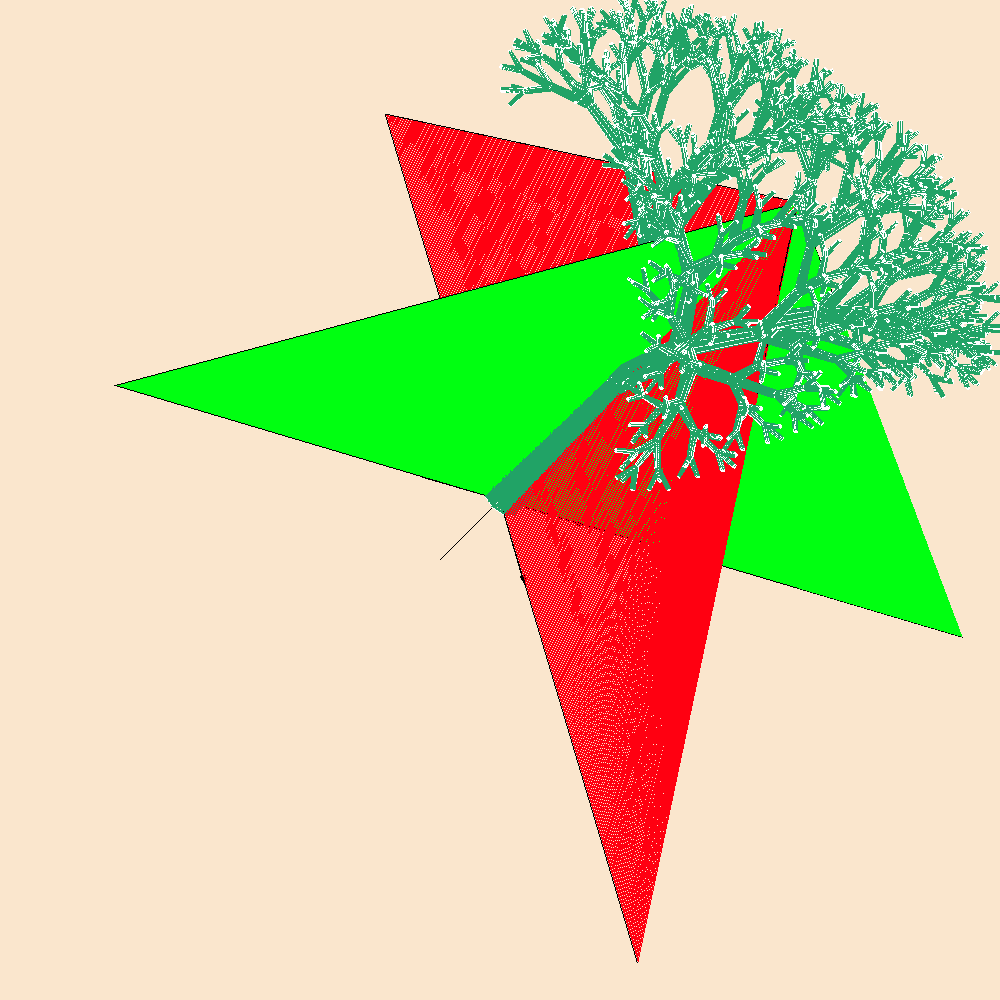
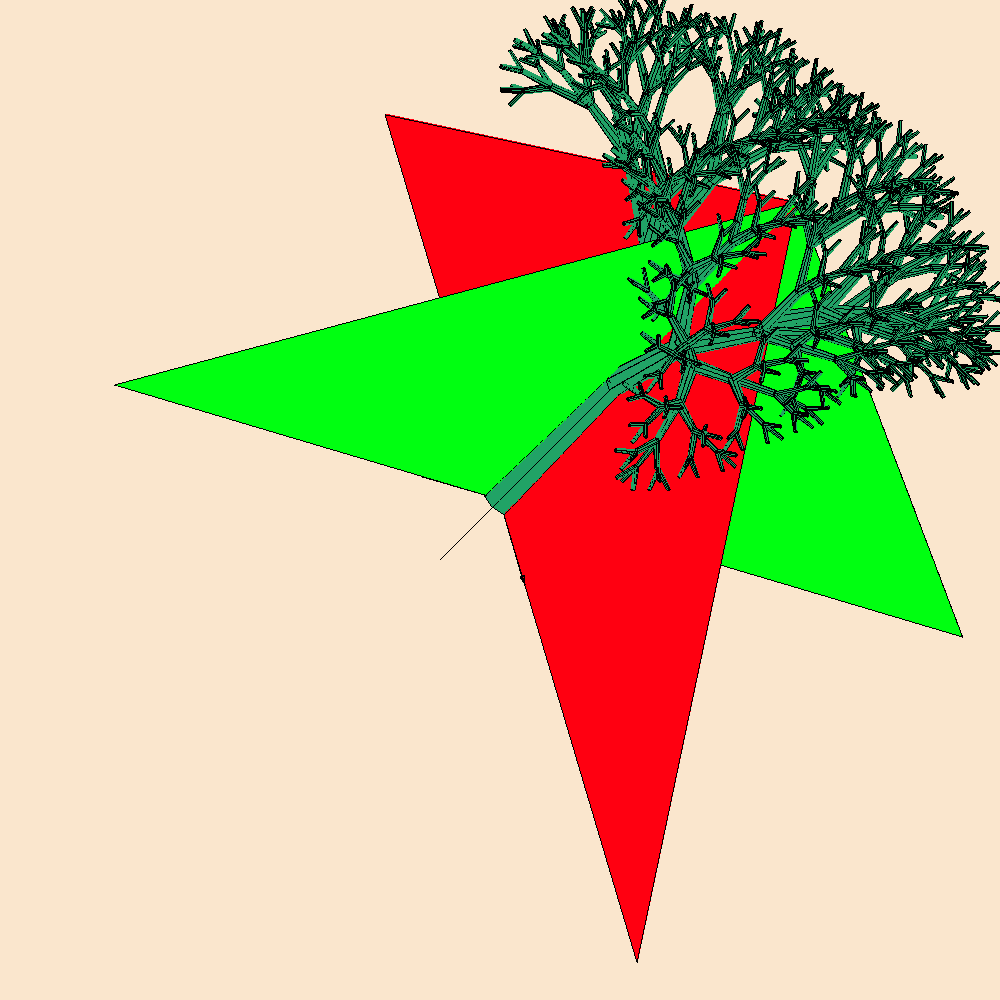
Update

diff --git a/src/GraphicsND.cpp b/src/GraphicsND.cpp
@@ -96,11 +96,11 @@ void GraphicsND::drawLine(double sx0, double ex0, double sy0, double ey0, double
 	int distance = delta[0] > delta[1] ? delta[0] : delta[1];			//总步数
 	distance = delta[2] > distance ? delta[2] : distance;				//总步数
 	//画线
-	for (int i = 0; i <= distance + 1; i++) {
+	for (int i = 0; i <= distance; i++) {
 		setPix(index[0], index[1], index[2]);							//唯一输出：画点
 		for (int dim = 0; dim < 3; dim++) {								//xyz走一步
 			err[dim] += delta[dim];
-			if (err[dim] > distance) { err[dim] -= distance; index[dim] += inc[dim]; }
+			if (err[dim] >= distance) { err[dim] -= distance; index[dim] += inc[dim]; }
 		}
 	}
 }
@@ -115,11 +115,11 @@ void GraphicsND::drawLine(Mat<double>& sp0, Mat<double>& ep0) {
 		delta[dim] *= delta[dim] < 0 ? -1 : 1;							//绝对值
 	} int distance = delta.max();										//总步数
 	//画线
-	for (int i = 0; i <= distance + 1; i++) {
+	for (int i = 0; i <= distance; i++) {
 		setPix(index[0], index[1], index[2]);							//唯一输出：画点
 		for (int dim = 0; dim < sp.rows; dim++) {						//xyz走一步
 			err[dim] += delta[dim];
-			if (err[dim] > distance) { err[dim] -= distance; index[dim] += inc[dim]; }
+			if (err[dim] >= distance) { err[dim] -= distance; index[dim] += inc[dim]; }
 		}
 	}
 }
@@ -142,7 +142,7 @@ void GraphicsND::drawTriangle(Mat<double>& p1, Mat<double>& p2, Mat<double>& p3,
 		Mat<int> err[2], inc[2], delta[2], index[2];
 		for (int k = 0; k < 2; k++) {
 			err[k].zero(Dim, 1), inc[k].zero(Dim, 1); delta[k].add(pt[k + 1], pt[0].negative(tmp)); index[k] = pt[0];
-			for (int dim = 1; dim < Dim; dim++) {
+			for (int dim = 0; dim < Dim; dim++) {
 				inc[k][dim] = delta[k][dim] == 0 ? 0 : (delta[k][dim] > 0 ? 1 : -1);//符号函数(向右,垂直,向左)
 				delta[k][dim] *= delta[k][dim] < 0 ? -1 : 1;						//向左
 			}
@@ -150,7 +150,7 @@ void GraphicsND::drawTriangle(Mat<double>& p1, Mat<double>& p2, Mat<double>& p3,
 		//画线
 		int dXMaxCur = delta[0][0] > delta[1][0] ? 0 : 1;
 		bool flag = true;															//三角形转折点检测开关(不然会二次检测)
-		for (int i = 0; i <= delta[dXMaxCur][0] + 1; i++) {
+		for (int i = 0; i <= delta[dXMaxCur][0]; i++) {
 			//三角形转折点检测
 			if (i == delta[1 - dXMaxCur][0] && flag) {
 				flag = false;														//关闭检测
@@ -170,11 +170,11 @@ void GraphicsND::drawTriangle(Mat<double>& p1, Mat<double>& p2, Mat<double>& p3,
 				deltaTmp[dim] *= deltaTmp[dim] < 0 ? -1 : 1;					//向左
 			}
 			int distanceTmp = deltaTmp.max();									//总步数
-			for (int i = 0; i <= distanceTmp + 1; i++) {						//画线
-				setPix(indexTmp[0], indexTmp[1], indexTmp[2], 0);				//唯一输出：画点
+			for (int i = 0; i <= distanceTmp; i++) {							//画线
+				setPix(indexTmp[0], indexTmp[1], indexTmp[2] - 1, 0);			//唯一输出：画点 (Z-1:反走样)
 				for (int dim = 0; dim < Dim; dim++) {							//xyz走一步
 					errTmp[dim] += deltaTmp[dim];
-					if (errTmp[dim] > distanceTmp) { errTmp[dim] -= distanceTmp; indexTmp[dim] += incTmp[dim]; }
+					if (errTmp[dim] >= distanceTmp) { errTmp[dim] -= distanceTmp; indexTmp[dim] += incTmp[dim]; }
 				}
 			}
 			for (int k = 0; k < 2; k++) {

diff --git a/example/LIGU-3D-Tree.c b/example/LIGU-3D-Tree.c
@@ -1,0 +1,43 @@
+#include "src/GraphicsND.h"
+#include "LiGu_AlgorithmLib/Fractal.h"
+#include <Windows.h>
+int main() {
+	GraphicsND g(1000, 1000);
+	g.g.clear(0xFAE6CD);
+
+	Mat<double> axis(3, 1), center(3, 1);
+	{double t[] = { 500 ,500 ,0 }; center.getData(t); }
+	g.translation(center);
+	{double t[] = { 1 ,1 ,0 }; axis.getData(t); }
+	{double t[] = { 0 ,0 ,0 }; center.getData(t); }
+	g.rotate(axis, 3/3, center);
+	g.g.PaintColor = 0; g.g.PaintSize = 0;
+	g.drawAxis(100, 100, 100, 1);
+	// Tree
+	g.FaceColor = 0x21a366; g.g.PaintSize = 0;
+	std::vector<Mat<double>> TreeSt, TreeEd;
+	{
+		Mat<double> tMat(3, 1);
+		{double t[] = { 0,0,0 }; tMat.getData(t); } TreeSt.push_back(tMat);
+		{double t[] = { 0,0,0 + 200 }; tMat.getData(t); } TreeEd.push_back(tMat);
+	}
+	Fractal::FractalTree3D(TreeSt, TreeEd, 6, (double)30 * 2 * PI / 360);
+	for (int i = 0; i < TreeSt.size(); i++) {
+		Mat<double> tmp;
+		double Width = 0.1 * (tmp.add(TreeEd[i], TreeSt[i].negative(tmp))).norm();
+		g.drawFrustum(TreeSt[i], TreeEd[i], Width, 0.7 * Width, 45,true,true);
+	}
+	g.FaceColor = 0xFF0011; g.g.PaintSize = 0;
+	Mat<double> p1(3, 1), p2(3, 1), p3(3, 1);
+	{double t[] = { 0,0,500 }; p1.getData(t); }
+	{double t[] = { 0,-500,0 }; p2.getData(t); }
+	{double t[] = { 0,600,0 }; p3.getData(t); } 
+	g.drawTriangle(p1, p2, p3, true);
+
+	g.FaceColor = 0x00FF11; g.g.PaintSize = 0;
+	{double t[] = { 0,0,500 }; p1.getData(t); }
+	{double t[] = { -500,0,0 }; p2.getData(t); }
+	{double t[] = { 600,0,0 }; p3.getData(t); }
+	g.drawTriangle(p1, p2, p3, true);
+	g.g.writeImg("D:/LIGU.ppm");
+}
